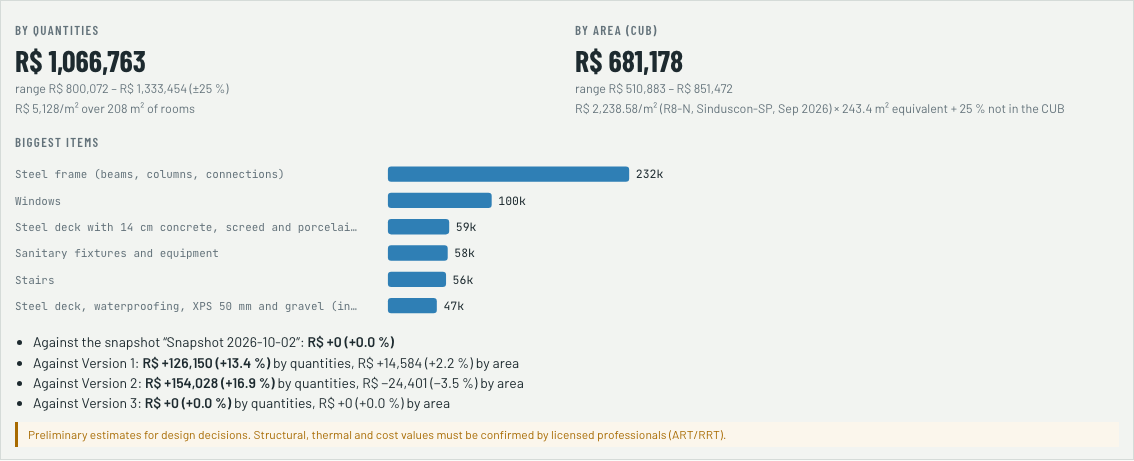
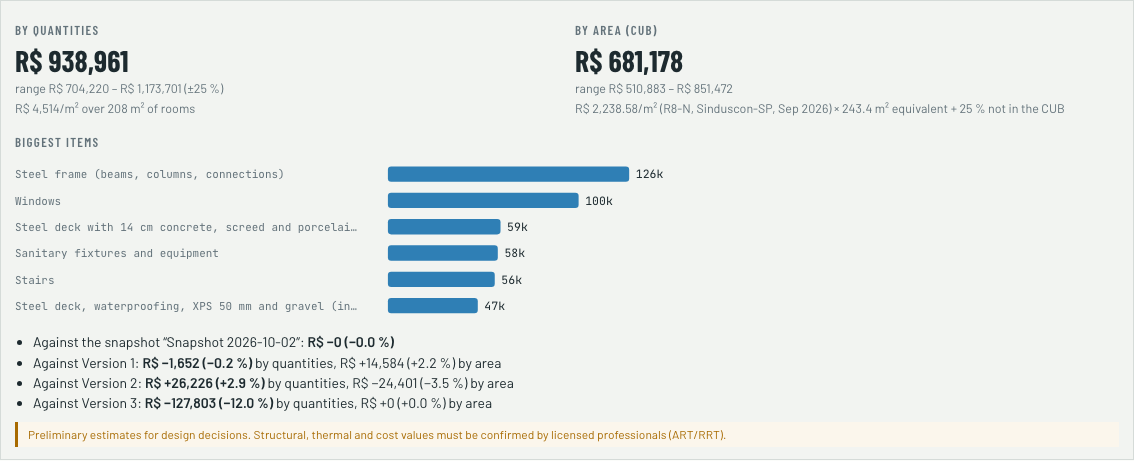
P1: lot wizard — e2e tests, screenshots, STATUS with demo script, decisions and questions (Q28–Q30)

diff --git a/e2e/p1.spec.ts b/e2e/p1.spec.ts
@@ -1,0 +1,167 @@
+// P1: the lot wizard — Casa 123 prefilled with its open items, a new lot from a sentence (AI mocked), the envelope,
+// and a lot change that leaves the house outside (shown in red, never moved).
+import { expect, test, type Page } from '@playwright/test';
+import { openCasa } from './helpers';
+
+const CASA_ANSWER = { shape: 'trapezoid', front: 14, rear: 15, left: 25, right: 25, secondStreet: null, terrain: 'down', fall: 2, lowerSide: null, streetFaces: 'E', address: null, city: 'Piracicaba', state: 'SP', notes: [] };
+
+/** No map tiles from the internet in tests; the AI answer is mocked. */
+async function offline(page: Page) {
+  await page.route('https://tile.openstreetmap.org/**', (r) => r.abort());
+  await page.route('**/api/ai/lot', (r) => r.fulfill({
+    json: { fields: CASA_ANSWER, usage: { date: new Date().toISOString(), purpose: 'lot description', model: 'claude-opus-5-5', tokensIn: 900, tokensOut: 120, usd: 0.006, brl: 0.0324 }, status: { connected: true, model: 'claude-opus-5-5', monthUsd: 0.006, monthBrl: 0.03, budgetUsd: 20, warn: false, blocked: false } },
+  }));
+}
+
+const step = (page: Page, k: string) => page.getByTestId(`wstep-${k}`).click();
+async function shot(page: Page, path: string) {
+  await page.evaluate(() => document.fonts.ready);
+  await page.screenshot({ path });
+}
+
+test('Casa 123 opens in the wizard prefilled; the summary lists the open items by whom to ask', async ({ page }) => {
+  await offline(page);
+  await openCasa(page, { tab: 'design' });
+  await page.getByTestId('step-lot').click();
+  await expect(page.getByTestId('lot-wizard')).toBeVisible();
+  await expect(page.getByTestId('lot-figures')).toContainText('362.50 m²');
+  await expect(page.getByTestId('w-city')).toHaveValue('Piracicaba');
+  await step(page, 'shape');
+  await expect(page.getByTestId('w-preset-trapezoid')).toHaveAttribute('aria-pressed', 'true');
+  await expect(page.getByTestId('w-front')).toHaveValue('14');
+  await expect(page.getByTestId('w-rear')).toHaveValue('15');
+  await expect(page.getByTestId('w-depth')).toHaveValue('25');
+  await expect(page.getByTestId('lc-side-0')).toContainText('14.00 m · street');
+  await expect(page.getByTestId('lc-house')).toHaveAttribute('data-outside', '0');
+  await page.getByTestId('lang-pt-BR').click();
+  await shot(page, 'docs/screens/P1-shape.png');
+  await page.getByTestId('lang-en').click();
+
+  await step(page, 'north');
+  await expect(page.getByTestId('w-faces-E')).toHaveAttribute('aria-pressed', 'true');
+  await expect(page.getByTestId('lc-sunpath-6')).toBeVisible();
+  await expect(page.getByTestId('w-sun-table')).toContainText('h of sun');
+
+  await step(page, 'rules');
+  await expect(page.getByTestId('w-sb-front')).toHaveValue('4');
+  await expect(page.getByTestId('w-sb-rear')).toHaveValue('6');
+  await expect(page.getByTestId('w-sb-left')).toHaveValue('1.2');
+  await expect(page.getByTestId('lc-envelope')).toBeVisible();
+  await expect(page.getByTestId('w-env-area')).toHaveText('180.9 m²');
+  await expect(page.getByTestId('w-max-footprint')).toHaveText('TO CONFIRM');
+  // "I don't know" fills a typical value, marked TO CONFIRM, and the maximum footprint follows
+  await page.getByTestId('w-to-dk').click();
+  await expect(page.getByTestId('w-to')).toHaveValue('60');
+  await expect(page.getByTestId('w-to-status')).toHaveValue('to-confirm');
+  await expect(page.getByTestId('w-max-footprint')).toHaveText('217.5 m²');
+  await page.getByTestId('lang-pt-BR').click();
+  await shot(page, 'docs/screens/P1-rules-envelope.png');
+  await page.getByTestId('lang-en').click();
+
+  await step(page, 'services');
+  await expect(page.getByTestId('w-sewer-depth')).toHaveValue('3');
+  await expect(page.getByTestId('w-volt-127/220')).toHaveAttribute('aria-pressed', 'true');
+
+  await step(page, 'summary');
+  const list = page.getByTestId('confirm-list');
+  await expect(list.locator('[data-who="prefeitura"]')).toContainText('zone');
+  await expect(list.locator('[data-who="prefeitura"]')).toContainText('Height limit');
+  await expect(list.locator('[data-who="prefeitura"]')).toContainText('carport');
+  await expect(list.locator('[data-who="water"]')).toContainText('SEMAE');
+  await expect(list.locator('[data-who="water"]')).toContainText('Depth of the public sewer');
+  await expect(list.locator('[data-who="power"]')).toContainText('CPFL');
+  await expect(list.locator('[data-who="surveyor"]')).toContainText('Topographic survey');
+  await expect(list.locator('[data-who="soil"]')).toContainText('SPT');
+  await page.getByTestId('lang-pt-BR').click();
+  await shot(page, 'docs/screens/P1-summary.png');
+});
+
+test('a new lot in under 2 minutes: the Casa 123 sentence (AI mocked) fills the trapezoid, the slope and the street side', async ({ page }) => {
+  await offline(page);
+  await page.addInitScript(() => { localStorage.setItem('casabim.lang', 'en'); localStorage.setItem('casabim.legacyImported', 'yes'); });
+  await page.goto('/#/');
+  await page.getByTestId('new-project').click();
+  await expect(page.getByTestId('lot-wizard')).toBeVisible();
+  await page.getByTestId('w-name').fill('Lote do teste');
+  await page.getByTestId('w-name').press('Tab');
+  await page.getByTestId('ai-text').fill('14 de frente, 15 de fundo, 25 de laterais, cai uns 2 metros para o fundo, a rua fica a leste, Piracicaba');
+  await page.getByTestId('ai-read').click();
+  const preview = page.getByTestId('ai-preview');
+  await expect(preview).toContainText('trapezoid');
+  await expect(preview).toContainText('falls towards the rear');
+  await expect(preview).toContainText('east');
+  // never applied on its own: the lot is still the default rectangle until "Use these values"
+  await expect(page.getByTestId('lot-figures')).toContainText('360.00 m²');
+  await page.getByTestId('lang-pt-BR').click();
+  await page.getByTestId('ai-use').scrollIntoViewIfNeeded();
+  await shot(page, 'docs/screens/P1-ai.png');
+  await page.getByTestId('lang-en').click();
+  await page.getByTestId('ai-use').click();
+  await expect(page.getByTestId('lot-figures')).toContainText('362.50 m²');
+  await expect(page.getByTestId('w-city')).toHaveValue('Piracicaba');
+  await step(page, 'shape');
+  await expect(page.getByTestId('w-preset-trapezoid')).toHaveAttribute('aria-pressed', 'true');
+  await expect(page.getByTestId('w-front')).toHaveValue('14');
+  await step(page, 'north');
+  await expect(page.getByTestId('w-faces-E')).toHaveAttribute('aria-pressed', 'true');
+  await step(page, 'terrain');
+  await expect(page.getByTestId('w-terrain-down')).toHaveAttribute('aria-pressed', 'true');
+  await expect(page.getByTestId('w-fall')).toHaveValue('2');
+  await step(page, 'rules');
+  // Piracicaba's table: eaves 0.70 given by the code; the setbacks typical and TO CONFIRM
+  await expect(page.getByTestId('w-eaves')).toHaveValue('0.7');
+  await step(page, 'summary');
+  await page.getByTestId('save-lot').click();
+  await expect(page.getByTestId('lot-saved')).toContainText('Start stage');
+  await expect(page.getByTestId('project-name')).toHaveText('Lote do teste');
+  await expect(page.getByTestId('step-start')).toBeDisabled();
+  // the starting house sits inside the buildable area
+  await page.getByTestId('tab-design').click();
+  await expect(page.getByTestId('envelope-banner')).toHaveCount(0);
+  await expect(page.getByTestId('plan-envelope')).toBeVisible();
+});
+
+test('a corner lot: both streets get the front setback; the envelope follows', async ({ page }) => {
+  await offline(page);
+  await page.addInitScript(() => { localStorage.setItem('casabim.lang', 'en'); });
+  await page.goto('/#/new');
+  await step(page, 'shape');
+  await page.getByTestId('w-preset-corner').click();
+  await page.getByTestId('w-front').fill('15');
+  await page.getByTestId('w-front').press('Enter');
+  await page.getByTestId('w-depth').fill('25');
+  await page.getByTestId('w-depth').press('Enter');
+  await expect(page.getByTestId('w-street-0')).toBeChecked();
+  await expect(page.getByTestId('w-street-1')).toBeChecked();
+  await step(page, 'rules');
+  for (const [k, v] of [['front', '4'], ['rear', '3'], ['left', '1.5']] as const) {
+    await page.getByTestId(`w-sb-${k}`).fill(v);
+    await page.getByTestId(`w-sb-${k}`).press('Enter');
+  }
+  // 15 − 1.5 − 4 = 9.5 m across, 25 − 4 − 3 = 18 m deep
+  await expect(page.getByTestId('w-env-area')).toHaveText('171.0 m²');
+});
+
+test('changing the lot after a design: the house is shown red with a clear message, never moved', async ({ page }) => {
+  await offline(page);
+  await openCasa(page, { tab: 'design' });
+  const before = await page.locator('text[data-room="Kitchen"]').textContent();
+  await page.getByTestId('step-lot').click();
+  await step(page, 'shape');
+  await page.getByTestId('w-front').fill('10');
+  await page.getByTestId('w-front').press('Enter');
+  await expect(page.getByTestId('lc-house')).toHaveAttribute('data-outside', '1');
+  await step(page, 'summary');
+  await page.getByTestId('save-lot').click();
+  await expect(page.getByTestId('lot-saved')).toContainText('nothing in the house was moved', { timeout: 30000 });
+  await page.getByTestId('tab-design').click();
+  await expect(page.getByTestId('envelope-banner')).toContainText('North side setback');
+  await expect(page.locator('rect.floor')).toHaveAttribute('data-outside', '1');
+  await expect(page.locator('text[data-room="Kitchen"]')).toHaveText(before!);
+  // the BIM tab's checks fail the setback too, and undo brings the old lot back
+  await page.getByTestId('tab-bim').click();
+  await page.getByTestId('checks-toggle').click();
+  await expect(page.locator('.checklist tr.fail', { hasText: 'North side setback' })).toBeVisible();
+  await page.getByTestId('undo').click();
+  await expect(page.getByTestId('envelope-banner')).toHaveCount(0);
+});

diff --git a/src/ui/LotCanvas.tsx b/src/ui/LotCanvas.tsx
@@ -33,7 +33,7 @@ export function LotCanvas({ lot, region, layer, house, onChange }: {
   const cx = (bx.x0 + bx.x1) / 2, cy = (bx.y0 + bx.y1) / 2;
   const R = Math.max(bx.x1 - bx.x0, bx.y1 - bx.y0) * 0.62;
   const pad = showSun ? Math.max(4, R - Math.min(bx.x1 - bx.x0, bx.y1 - bx.y0) / 2 + 2.5) : 4;
-  const X0 = bx.x0 - pad, X1 = bx.x1 + pad, Y0 = bx.y0 - pad - 2, Y1 = bx.y1 + pad;
+  const X0 = bx.x0 - pad, X1 = bx.x1 + pad, Y0 = bx.y0 - pad - (layer === 'services' || layer === 'summary' ? 3 : 2), Y1 = bx.y1 + pad;
   const px = (x: number) => x - X0;
   const py = (y: number) => Y1 - y;
   const W = X1 - X0, H = Y1 - Y0;
@@ -66,7 +66,7 @@ export function LotCanvas({ lot, region, layer, house, onChange }: {
   out.push(<polygon key="lot" points={pts(l.polygon)} className="lc-lot" data-testid="lc-lot" />);
 
   // ground: heights at the corners and the direction it falls
-  if (layer === 'terrain' || layer === 'summary') {
+  if (layer === 'terrain') {
     const [a, b, c, d] = cornerHeights(l);
     const corners: [P2, number][] = [[[bx.x0, bx.y0], a], [[bx.x1, bx.y0], b], [[bx.x1, bx.y1], c], [[bx.x0, bx.y1], d]];
     for (let k = 0; k < 6; k++) for (let j = 0; j < 6; j++) {
@@ -75,7 +75,8 @@ export function LotCanvas({ lot, region, layer, house, onChange }: {
       const tt = hi - lo > 1e-6 ? (z - lo) / (hi - lo) : 0.5;
       out.push(<rect key={`g${k}${j}`} x={px(x - (bx.x1 - bx.x0) / 12)} y={py(y + (bx.y1 - bx.y0) / 12)} width={(bx.x1 - bx.x0) / 6} height={(bx.y1 - bx.y0) / 6} className="lc-ground" style={{ opacity: 0.12 + 0.4 * tt }} />);
     }
-    corners.forEach(([[x, y], z], i) => out.push(<text key={`h${i}`} x={px(x)} y={py(y) + (i < 2 ? fs * 1.6 : -fs * 0.7)} className="lc-h" style={{ fontSize: fs }} textAnchor={i === 0 || i === 3 ? 'start' : 'end'}>{`${z >= 0 ? '+' : '−'}${t.n(Math.abs(z), 2)} m`}</text>));
+    // heights just inside each corner of the bounding box (the side lengths sit outside)
+    corners.forEach(([[x, y], z], i) => out.push(<text key={`h${i}`} x={px(x + (i === 0 || i === 3 ? 0.5 : -0.5))} y={py(y + (i < 2 ? 0.9 : -1.4))} className="lc-h" style={{ fontSize: fs }} textAnchor={i === 0 || i === 3 ? 'start' : 'end'}>{`${z >= 0 ? '+' : '−'}${t.n(Math.abs(z), 2)} m`}</text>));
   }
 
   // envelope and window line
@@ -151,7 +152,10 @@ export function LotCanvas({ lot, region, layer, house, onChange }: {
       `${t('Water')}: ${s.water.depth.value === null ? t('depth to confirm') : `−${t.n(s.water.depth.value, 2)} m`}`,
       `${t('Power')}: ${s.power.supply.value ? `${s.power.supply.value.phaseV}/${s.power.supply.value.lineV} V ${s.power.supply.value.phases}φ` : t('to confirm')}`,
     ];
-    items.forEach((txt, k) => out.push(<text key={`sv${k}`} x={px(a[0] + ((b[0] - a[0]) * (k + 0.5)) / 3)} y={py((a[1] + b[1]) / 2) + fs * 3.2} className="lc-svc" style={{ fontSize: fs * 0.85 }} textAnchor="middle">{txt}</text>));
+    // one line each, beyond the street band
+    const len = Math.hypot(b[0] - a[0], b[1] - a[1]) || 1, nx = (b[1] - a[1]) / len, ny = -(b[0] - a[0]) / len;
+    const mx = (a[0] + b[0]) / 2, my = (a[1] + b[1]) / 2;
+    items.forEach((txt, k) => out.push(<text key={`sv${k}`} x={px(mx + nx * (3.6 + k * 0.85))} y={py(my + ny * (3.6 + k * 0.85))} className="lc-svc" style={{ fontSize: fs * 0.85 }} textAnchor="middle" dominantBaseline="middle" data-testid={`lc-svc-${k}`}>{txt}</text>));
   }
 
   // draggable corners

diff --git a/src/ui/LotWizard.tsx b/src/ui/LotWizard.tsx
@@ -280,17 +280,18 @@ function AiDescribe({ t, d, setD }: { t: T; d: LotDraft; setD: (f: (x: LotDraft)
   const project = useApp((s) => s.info?.id);
   const [text, setText] = useState('');
   const [busy, setBusy] = useState(false);
-  const [msg, setMsg] = useState('');
+  /** a text key and its values (shown in the current language), or a server message */
+  const [msg, setMsg] = useState<{ k: string; v?: Record<string, string | number> } | null>(null);
   const [fields, setFields] = useState<LotAiFields | null>(null);
   const [editing, setEditing] = useState(false);
   const read = async () => {
-    setBusy(true); setMsg(''); setFields(null); setEditing(false);
+    setBusy(true); setMsg(null); setFields(null); setEditing(false);
     try {
       const r = await api.aiLot(text, project);
       setFields(r.fields);
-      setMsg(t('Read by the AI · cost US$ {usd}', { usd: t.n(r.usage.usd, 4) }));
+      setMsg({ k: 'Read by the AI · cost US$ {usd}', v: { usd: r.usage.usd } });
     } catch (e) {
-      setMsg(e instanceof ApiError && e.code === 'no-key' ? t('The AI is not connected yet (no key). Fill in the steps by hand, or add the key with “Add AI key.command”.') : e instanceof ApiError ? e.message : String(e));
+      setMsg(e instanceof ApiError && e.code === 'no-key' ? { k: 'The AI is not connected yet (no key). Fill in the steps by hand, or add the key with “Add AI key.command”.' } : { k: e instanceof ApiError ? e.message : String(e) });
     } finally { setBusy(false); }
   };
   const use = () => {
@@ -301,7 +302,7 @@ function AiDescribe({ t, d, setD }: { t: T; d: LotDraft; setD: (f: (x: LotDraft)
       if (fields.city) next = withCity(next, fields.city, fields.state ?? next.region.state);
       return next;
     });
-    setFields(null); setMsg(t('Values used. Check them in the next steps.'));
+    setFields(null); setMsg({ k: 'Values used. Check them in the next steps.' });
   };
   const f = fields;
   const set = (patch: Partial<LotAiFields>) => f && setFields({ ...f, ...patch });
@@ -313,7 +314,7 @@ function AiDescribe({ t, d, setD }: { t: T; d: LotDraft; setD: (f: (x: LotDraft)
         <textarea rows={3} value={text} onChange={(e) => setText(e.target.value)} placeholder={t('e.g. 14 m at the front, 15 at the back, 25 on the sides, it falls about 2 m to the back, the street is to the east, Piracicaba')} data-testid="ai-text" />
       </label>
       <button disabled={busy || !text.trim()} onClick={read} data-testid="ai-read">{busy ? t('Reading…') : t('Read with AI')}</button>
-      {msg && <p className="hint" data-testid="ai-msg">{msg}</p>}
+      {msg && <p className="hint" data-testid="ai-msg">{t(msg.k, msg.v && Object.fromEntries(Object.entries(msg.v).map(([k, v]) => [k, typeof v === 'number' ? t.n(v, 4) : v])))}</p>}
       {f && (
         <div className="aipreview" data-testid="ai-preview">
           <h4>{t('The AI understood:')}</h4>

diff --git a/e2e/p0.spec.ts b/e2e/p0.spec.ts
@@ -33,8 +33,10 @@ test('Projects home shows Casa 123; opening it lands on DESIGN with Version 3 in
   await expect(page.locator('.plan .dim')).toHaveCount(0);
   await expect(page.getByTestId('checks-toggle')).toHaveCount(0);
   await expect(page.getByTestId('plumbing2d')).toHaveCount(0);
-  await expect(page.getByTestId('step-lot')).toBeDisabled();
-  await expect(page.getByTestId('step-lot')).toContainText('coming in P1');
+  // P1: the Lot step opens the lot wizard; Start waits for P2
+  await expect(page.getByTestId('step-lot')).toBeEnabled();
+  await expect(page.getByTestId('step-start')).toBeDisabled();
+  await expect(page.getByTestId('step-start')).toContainText('coming in P2');
   await page.evaluate(() => document.fonts.ready);
   await page.screenshot({ path: 'docs/screens/P0-design.png' });
 

diff --git a/src/ui/App.tsx b/src/ui/App.tsx
@@ -358,7 +358,7 @@ export function App() {
     let last: string | null = null;
     try { last = localStorage.getItem('casabim.last'); } catch { /* ignore */ }
     if (new URLSearchParams(location.search).has('dev')) useApp.getState().setPanel({ devOpen: true });
-    if (r.page === 'project') useApp.getState().go(r);
+    if (r.page !== 'home') useApp.getState().go(r);
     else if (!location.hash && last) useApp.getState().go({ page: 'project', id: last, tab: 'design' });
     else useApp.getState().go({ page: 'home' });
   }, []);

diff --git a/docs/STATUS.md b/docs/STATUS.md
@@ -2,6 +2,67 @@
 
 _Updated by Claude Code after every spec. The manager reads this file._
 
+## 2026-10-02 — P1 done: lot wizard
+
+### What was built
+- **Lot wizard** (Portuguese first, English with the EN button). Seven steps on the left, the questions in the middle, the lot to scale on the right (or the map), **Voltar / Avançar** at the bottom. Nothing blocks moving on; you can jump to any step.
+  1. **Endereço e localização:** name (new projects), address, city, state, latitude/longitude, and a map (OpenStreetMap) to click the lot. The city fills the starting rules, whom to ask and the sun. Optional box *"descreva seu lote em palavras"* (AI, see below).
+  2. **Forma do lote:** rectangle, trapezoid (front, rear, depth; which side takes the difference), corner lot (two streets), irregular (a table of corners). Corners drag on the drawing in 5 cm steps. Live area, perimeter and side lengths; tick which sides face a street.
+  3. **Orientação:** "a frente do lote está voltada para…" (8 directions plus a 1° dial), or **two clicks on the map** along the street front. The drawing shows the sun path on 21 June and 21 December, sunrise and sunset, and a table of **hours of sun per side**.
+  4. **Terreno:** flat / falls to the rear / rises / falls to one side, with the metres; or the 4 corner heights. A small 3D preview of the ground. Note: the topographic survey can replace it later (the model already keeps spot heights).
+  5. **Regras:** zone, setbacks (front, rear, each side), TO, TP, CA, height, floors, eaves, special notes. **Live:** the buildable area drawn in green, the maximum footprint (TO), the maximum built area (CA), the minimum permeable area (TP), and the 1.50 m window line (Civil Code) in orange dashes.
+  6. **Redes da rua:** sewer (exists? depth), water main, electricity (127/220 or 220/380; single-, two- or three-phase), rainwater (storm drain or gutter), gas (and whether the family wants it). Each says **whom to ask** (Piracicaba: SEMAE, CPFL; elsewhere generic names).
+  7. **Resumo:** the lot card and the **"to confirm" list grouped by whom to ask**. **Salvar lote.**
+- **Every answer can be "Não sei":** it fills a typical value and marks it **A CONFIRMAR**. Each value has a small chip: *informado / confirmado / A CONFIRMAR*.
+- **Describe the lot in words (AI):** the local server asks Claude for the lot as typed JSON (checked with zod). The wizard shows *"A IA entendeu: …"* with **Usar estes valores / Editar / Descartar**; nothing is applied on its own. Usage is logged and counted in the budget as in P0.
+- **New project** now starts with the wizard. **Salvar lote** creates the project at the **Início** stage (greyed until P2) with the simple P0 house placed inside the buildable area.
+- **Existing projects:** the **1 Lote** step of the journey opens the wizard prefilled. Saving changes the lot in every working version (each with its own undo step); the approved snapshots stay frozen. The checks run again. **If the house now falls outside the buildable area, the plan shows a red message and the green envelope line; the house is never moved.**
+- **Data model:** the lot is now `site.lot` (shape, street sides, position and north, terrain, rules, services, notes), each value with its status, source and date. Every engine (site, sun, setbacks, ground, routes to the street, supply) reads only from it. **Casa 123 was moved into it with no change in any result** (test).
+- New site checks when a lot has the values: site coverage (TO), floor-area ratio (CA), permeable area (TP), height and floors. Corner lots get a front setback on both streets.
+- **Carry-over Q24:** in the BIM tab, walls, doors and windows can no longer be dragged or added. Clicking one shows its properties read-only with **Editar em PROJETO**, which switches tab and selects it. Door/window size, swing and delete moved to the DESIGN side panel.
+- **Carry-over Q20 (b):** see the result below.
+
+### Q20 result (BIM copy of Version 3)
+- Added a **column line at x 5.00** (columns at y 5.00, 8.50 and 12.60; none at the veranda edge, where a conduit runs) and **one column under the rear overhang at x 3.20, y 13.60**, standing on the lower-level wall line.
+- Re-ran the pre-sizing, then applied the proposed sizes **that fit**: beams no deeper than the 0.26 m left in the 0.40 m zone (0.40 − 0.14 slab), and never shallower where a pipe crosses through a web hole; footings enlarged only where over capacity and not into a buried pipe.
+- **Result: 0 beams and 0 footings over capacity** (before: 10 and 5). Beams W150 to W250; the highest beam is exactly at its limit (1.00). Steel **7.0 t (34 kg/m²)** instead of 12.9 t (62 kg/m²). Floor-to-floor stays 3.10.
+- **No pipe or conduit lost its route.** The BIM checks now show **1 fail** (the lower-level gravity drain, on purpose, as before) and 3 to confirm (carport, rainfall, soil).
+- To decide (Q28): three of the new columns are visible — in the street-level dining room and the corner of Bedroom 3 (x 5.00, y 8.50), in the lower-level studio (x 5.00, y 12.60), and as a post on the veranda (x 3.20, y 13.60).
+
+### How to see it
+1. Double-click **Open Casa BIM.command** (keep its window open). If an old Casa window is already open, close it first: the running app still has the old code in memory.
+2. On the Projects page click **Novo projeto**, or open **Casa 123** and click **1 Lote** in the journey bar.
+3. Screenshots: `docs/screens/P1-shape.png`, `P1-rules-envelope.png`, `P1-summary.png`, `P1-ai.png` (and `P1.png`).
+
+### 2-minute demo script
+1. Double-click **Open Casa BIM.command**. *You see:* the Projects page.
+2. Click **Novo projeto**. *You see:* "Seu lote", seven steps on the left, a map on the right.
+3. Type a name. In *"Ou descreva seu lote em palavras"* type: *14 de frente, 15 de fundo, 25 de laterais, cai uns 2 metros para o fundo, a rua fica a leste, Piracicaba* and click **Ler com a IA**. *You see:* "A IA entendeu: trapézio 14 / 15 / 25, cai para o fundo 2,00 m, a rua a leste, Piracicaba/SP". Click **Usar estes valores**. *(Needs the AI key; without it, pick Trapézio in step 2 and type 14 / 15 / 25.)*
+4. Click **Avançar** through the steps. *You see:* the lot to scale with the street at the bottom (2); the sun paths and the hours of sun per side (3); the slope in 3D (4); the green buildable area (5). In step 5 click **Não sei** next to *Taxa de ocupação*: it becomes 60 % A CONFIRMAR and the maximum footprint appears.
+5. In **Resumo** click **Salvar lote**. *You see:* "Lote salvo… etapa Início", and the project opens.
+6. Back on **Projetos**, open **Casa 123** and click **1 Lote**. *You see:* Casa's lot already filled in. Click **7 Resumo**: to confirm with the **Prefeitura** (zone, rates, height, carport, decks), **SEMAE** (sewer and water depth), **CPFL** (supply), the **topógrafo** and the **sondagem**.
+7. In **2 Forma do lote** change *Frente* to 10, then **Resumo → Salvar lote**, then **Plantas**. *You see:* a red message "A casa está fora da área edificável…" and the green dashed line crossing the house. Ctrl+Z on that tab brings the old lot back (or set *Frente* back to 14).
+8. Click **BIM**, click a wall. *You see:* its properties read-only and **Editar em PROJETO**.
+
+### Tests
+- `npm test`: 140 unit tests (17 new): the **regression** (every engine result of Casa 123 Versions 1–3 identical before and after the move, from the committed files and from a model saved before P1); the envelope of a rectangle, the Casa 123 trapezoid and a **corner lot** (front setback on both streets; a house moved into the side-street setback fails); an **irregular 5-corner lot** (area = shoelace formula, clockwise or not); TO/CA/TP; slopes and 4-corner terrain; the city table; the Casa 123 to-confirm list; the AI lot endpoint with a fake Claude (typed JSON, a wrong answer refused, no key, usage logged); the Casa sentence giving exactly the Casa 123 lot.
+- `npm run e2e`: 42 browser tests (5 new): Casa 123 prefilled with its open items; a new lot from the sentence (AI mocked) saved as a project; a corner lot's envelope; a lot change that leaves the house outside (red message, house not moved, undo); Q24 (BIM cannot drag; Edit in DESIGN).
+- `npm run build` passes.
+
+### Not done yet / known gaps
+- **No real AI call yet:** `.env.local` has no key, so `P1-ai.png` shows the mocked answer (Q30).
+- Piracicaba's zone, TO, TP, CA and height are empty and TO CONFIRM in the city table (Q29). Its setbacks are Casa 123's values, marked TO CONFIRM for other lots.
+- Casa 123's latitude/longitude are the city's; clicking the lot on the map in step 1 places it exactly (the sun barely changes).
+- A sideways slope or 4 corner heights are shown in the wizard and the 3D preview; the house engines still use the street-to-rear profile along the middle until P2/P5 place houses on slopes.
+- A lot with an inward corner gets a buildable area on the safe side (the wizard says so).
+- Map: searching an address is not built (click the map or type the coordinates).
+
+### Open questions
+New: Q28 (visible columns from Q20), Q29 (Piracicaba rules), Q30 (one real AI call for the screenshot). Still open: Q7–Q9, Q11–Q13, Q15, Q17–Q18, Q22.
+
+### Next
+P2 (starting point: typology × style × program), when the manager marks it ready.
+
 ## 2026-10-02 — P0 done: two tabs, projects, generalisation, AI server
 
 ### What was built

diff --git a/docs/DECISIONS.md b/docs/DECISIONS.md
@@ -115,3 +115,19 @@
 - 2026-10-02 (P0) — Language: the English text is the key (`src/i18n/pt-BR.ts`); Brazilian Portuguese is the default for new projects and Casa 123. Texts produced by the engines (check rules and sources, estimates, library names, room names) stay in English in P0 (Q25). Numbers in the UI follow the language (78,2 m²).
 - 2026-10-02 (P0) — Legal notice (both languages) under every screen and as the first two lines of every CSV export. Export file names start with the project name (`casa-123-bim-electrical.csv`).
 - 2026-10-02 (P0) — E2E tests run the real server on a copy of `projects/` (`scripts/e2e-server.mjs`, no AI key) and each test works on its own duplicate of Casa 123, in English.
+- 2026-10-02 (P1) — The lot lives in each model as `site.lot` (polygon, shape status, street edges, geo, terrain, rules, services, notes, extra items to confirm); every value has status GIVEN / CONFIRMED / TO CONFIRM, source and date. The wizard saves it into every working version (design versions and the BIM copy), one undo step each; approved snapshots stay frozen. Lot coordinates are the old `lotPolygon` ones (origin at the front-left corner, x along the street), so Casa 123's polygon is unchanged.
+- 2026-10-02 (P1) — Removed from the model: `lotPolygon`, `fallStreetToRear`, `setbacks`, `eavesLimit`, `utilities`, `toConfirm` and the lot facts in `region` (lat, lon, xBearing, supply, water). `region` keeps the city facts and gains `rainIntensity`. Models saved before P1 are moved on opening (`upgradeSite`); the committed Casa 123 files were rewritten once (`scripts/p1-migrate-files.ts`, only the site changed). The regression test compares every engine result of Versions 1–3 (checks with their texts, ground, sun, 3D parts, systems, estimates) with a snapshot taken by the code before the move: identical.
+- 2026-10-02 (P1) — The only drawing change: the setback lines on the 3D ground became the buildable envelope, offset square to each boundary (before, the slanted north side was offset along x: 1.20 m instead of 1.2010 m).
+- 2026-10-02 (P1) — Boundary roles: the street edges are given; any other edge is the rear when its outward normal points within 45° of "away from the street", otherwise the left or right side. A corner lot takes the front setback on both streets (rows `setback:front` and `setback:front-2`). Boundaries are named by the compass point they face; this fixes the flat-lot fixture, whose window rows called its north side "south".
+- 2026-10-02 (P1) — Setback distances are signed: a footprint corner on the outer side of a boundary counts negative, so a house moved off the lot fails.
+- 2026-10-02 (P1) — Envelope: the lot clipped by each boundary's setback (half-planes). Exact for convex lots; with an inward corner it is on the safe side, and the wizard says so.
+- 2026-10-02 (P1) — Terrain: a bilinear surface over the lot's bounding box (flat, down, up, side or 4 corners; spot heights kept for a survey). The engines use the street-to-rear profile along the middle of the lot; with a front-to-rear slope this is exactly the old formula.
+- 2026-10-02 (P1) — New site checks (TO, CA, TP, height, floors) appear only when the lot has that value. TP counts the lot minus the floor outlines and the paved ground zones. Casa 123 has none of these values yet, so its results are unchanged.
+- 2026-10-02 (P1) — City table (`model/cities.ts`): Piracicaba only. Code LC 474/2025 and eaves 0.70 given; setbacks 4.00 / 6.00 / 1.20 (Casa 123's) TO CONFIRM; zone, TO, TP, CA, height, floors empty (Q29); SEMAE, CPFL Paulista, 127/220 V 3φ; climate zone 2, the PV table, solar share 0.7, rainfall 150 mm/h. Any other city: empty values TO CONFIRM and generic names to ask. "Não sei" typical values (always TO CONFIRM): setbacks 4 / 3 / 1.5 m, TO 60 %, TP 20 %, CA 1.2, height 9 m, 2 floors, eaves 0.60 m, sewer 1.5 m, water main 0.8 m, 127/220 V 3φ. Choosing a city only fills values still TO CONFIRM.
+- 2026-10-02 (P1) — Trapezoid preset: front, rear and a depth square to the street ("25 de laterais"); the rear difference goes to the right side by default (Casa 123's assumption), or the left, or half each. It gives Casa 123's polygon exactly. Casa 123 keeps the names already in its data ("SEMAE", "CPFL").
+- 2026-10-02 (P1) — The to-confirm list is computed: every TO CONFIRM value, the extra items, and design items (a carport in the setback). Casa 123's 8 old lines: 4 became statuses (survey, sewer depth, zone and height, supply), 4 stay as items (soil test, climate zone → engineer, decks in the setbacks → Prefeitura, which side takes the extra metre → surveyor). Gas is listed only when the family wants piped gas.
+- 2026-10-02 (P1) — AI lot description: `POST /api/ai/lot`, prompt and zod schema in `model/lot-ai.ts`; an answer that is not the schema is refused (422). Calls made before a project exists are logged in `projects/new-projects/ai-usage.jsonl` (counted in the monthly budget; not a project).
+- 2026-10-02 (P1) — New project = the wizard first (`#/new`); Save lot creates the project at stage Start with the P0 starter house, placed as the largest house up to 9 × 8 m (at least 6 × 6) inside the envelope, nearest the street, centred across. Its climate-zone assumption comes from the city table.
+- 2026-10-02 (P1) — Map: Leaflet with OpenStreetMap tiles, loaded only while the map is shown, attribution visible; tests block the tiles. North from the map = the bearing of two clicks along the street front (front-left corner, then front-right).
+- 2026-10-02 (P1, Q24) — The BIM tab shows walls, doors, windows and rooms read-only (no drag, no door/window tools, no delete key) with "Edit in DESIGN". Door and window size, swing and delete moved to the DESIGN side panel. A wall keeps the assembly chosen in BIM when the design is re-approved.
+- 2026-10-02 (P1, Q20) — The grid can now skip an intersection (`grid.skip`) and carry columns off its lines (`grid.extra`). Casa 123 BIM: line x 5.00, no column at (5.00, 15.00) where a conduit runs, an extra column at (3.20, 13.60). Beam proposals: the lightest section that passes within the structure zone (structure depth minus the slab) and keeps the depth needed by the web holes already used by pipes and conduits (Ø ≤ 0.4 × depth, 20 mm of web); otherwise the lightest that passes. "Use the proposed sizes" now grows only footings over capacity, and not where a bigger pad would hit a buried run. Applied to the BIM copy only (structure is BIM's; the design versions and Approved 1 keep theirs).

diff --git a/docs/QUESTIONS.md b/docs/QUESTIONS.md
@@ -172,3 +172,15 @@ The AI settings start at US$ 1 = R$ 5,40 and a budget of US$ 20 a month (warning
 
 **Manager (2026-10-02):** Keep US$ 20/month with the 80% warning. The owner can change it in the AI settings.
 
+## Q28 (2026-10-02, P1 / Q20) — Three of the new columns are visible
+The Q20 (b) layout works (no member over capacity, no route lost), but three new columns are not inside a wall:
+- **x 5.00, y 8.50:** free-standing in the street-level dining room, and at the inside corner of Bedroom 3 upstairs (0.30 m past the end of the bath wall);
+- **x 5.00, y 12.60:** free-standing in the lower-level studio (inside the walls on the two floors above);
+- **x 3.20, y 13.60:** a post on the veranda, under the upper-floor overhang (on the lower-level wall line, as suggested).
+Without the column at x 5.00, y 8.50, the beams of that line span 5.40 m again and need W410 sections that do not fit the zone. **Keep them as visible steel columns (a design feature), box them into a wall or cabinet, or ask the engineer for another solution?**
+
+## Q29 (2026-10-02, P1) — Piracicaba's rules for the city table
+The city table has Piracicaba's code (LC 474/2025) and its eaves limit (0.70 m). The zone, site coverage (TO), permeable area (TP), floor-area ratio (CA), height limit and number of floors are **empty, TO CONFIRM**; the setbacks are the values given for Casa 123 (front 4.00, rear 6.00, sides 1.20), marked TO CONFIRM for other lots. **Can the owner or the Prefeitura give the zone of Rua Alceu Maynardi Araújo, 123 and its TO / TP / CA / height?** I did not invent values.
+
+## Q30 (2026-10-02, P1) — One real AI call for the screenshot
+The spec asks for one real call to read the Casa 123 sentence. `.env.local` has no API key yet, so the AI is tested with a mocked answer and `docs/screens/P1-ai.png` shows that mocked answer. **When the owner adds the key (Add AI key.command), I will make the one real call and replace the screenshot** (cost about US$ 0.01).

diff --git a/docs/specs/P1-lot-wizard.md b/docs/specs/P1-lot-wizard.md
@@ -1,5 +1,5 @@
 # P1 — Lot wizard
-Status: in progress
+Status: done (2026-10-02)
 
 ## Goal
 The first step of every project. A friendly, step-by-step wizard (pt-BR first) where anyone describes their lot, even without a survey, and gets a to-scale lot with its **buildable envelope**, its sun, and a clear list of what is still to confirm and with whom.
